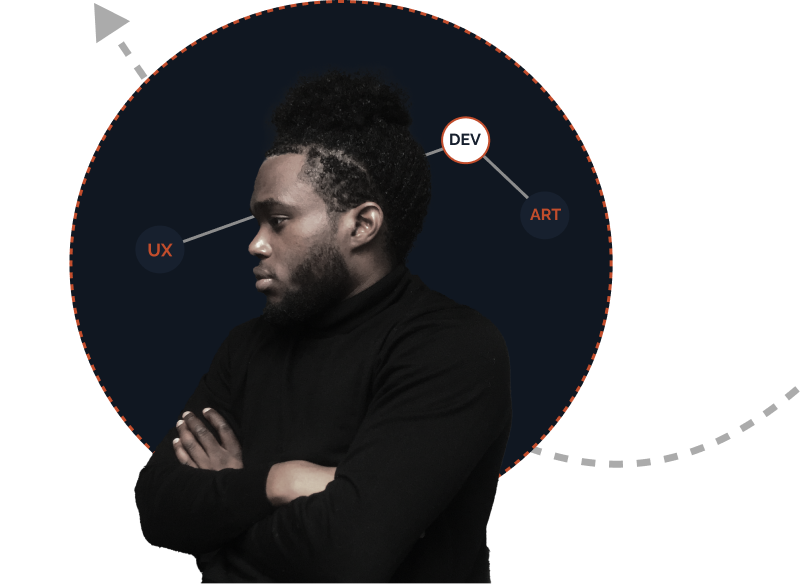
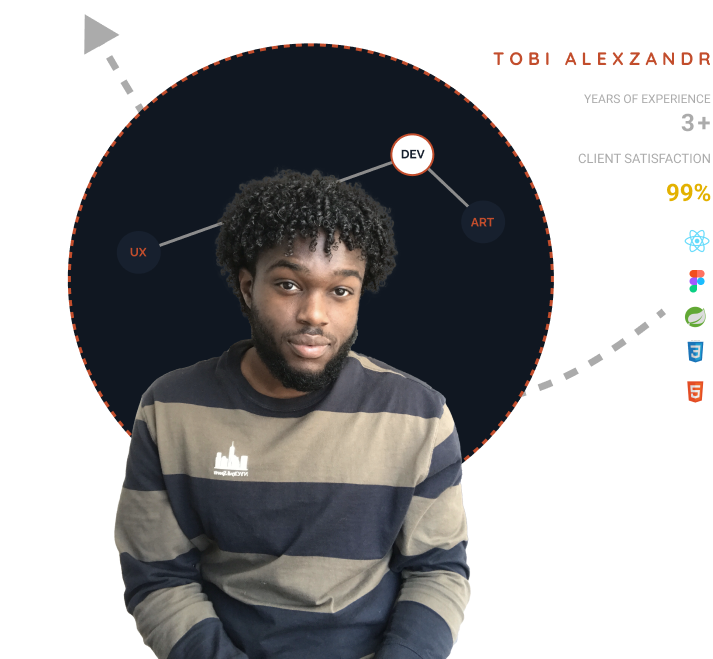
Replaced Image

diff --git a/src/Banner.css b/src/Banner.css
@@ -16,7 +16,8 @@
     align-self: flex-end;
     margin-left: auto;
     object-fit: contain;
-    height: 75%;
+    height: 100%;
+    margin-right: 10px;
 }
 
 .banner-info{
@@ -24,6 +25,20 @@
     font-family: Ralew;
 }
 
+.banner-info > p{
+    font-family: 'Raleway Dots', cursive;
+    color: white;
+    font-size: 40px;
+    margin:0;
+    margin-top: 50px;
+    letter-spacing: 8px;
+
+}
 .banner-info > h1{
-    
+    font-family: 'Quicksand', sans-serif;
+    color: white;
+    font-weight: 400;
+    letter-spacing: 8px;
+    font-size: 40px;
+    margin-top: 10px;
 }

diff --git a/public/index.html b/public/index.html
@@ -3,6 +3,15 @@
   <head>
     <meta charset="utf-8" />
     <link rel="icon" href="%PUBLIC_URL%/favicon.ico" />
+
+    <!-- F O N T S -->
+    <link rel="preconnect" href="https://fonts.googleapis.com" />
+    <link rel="preconnect" href="https://fonts.gstatic.com" crossorigin />
+    <link
+      href="https://fonts.googleapis.com/css2?family=Quicksand:wght@300;400;600&family=Raleway+Dots&display=swap"
+      rel="stylesheet"
+    />
+
     <meta name="viewport" content="width=device-width, initial-scale=1" />
     <meta name="theme-color" content="#000000" />
     <meta

diff --git a/src/Banner.jsx b/src/Banner.jsx
@@ -6,7 +6,8 @@ function Banner() {
   return (
   <section className='banner'>
       <div className="banner-info">
-        <h1>HIRE ME</h1>
+        <p>CREATIVE</p>
+        <h1>TECHNOLOGIST</h1>
       </div>
       <div className="banner-infographic">     
         <img src={bannerImage} alt="" />

diff --git a/src/Navbar.css b/src/Navbar.css
@@ -7,9 +7,7 @@
     width: 9%;
     height: 100vh;
     position: sticky;
-    border-right: 3px dashed;
-    border-right-width: 2px;
-    border-color: #444444;
+    border-right: 2px dashed #444444;    
 }
 
 .navbutton-container{
